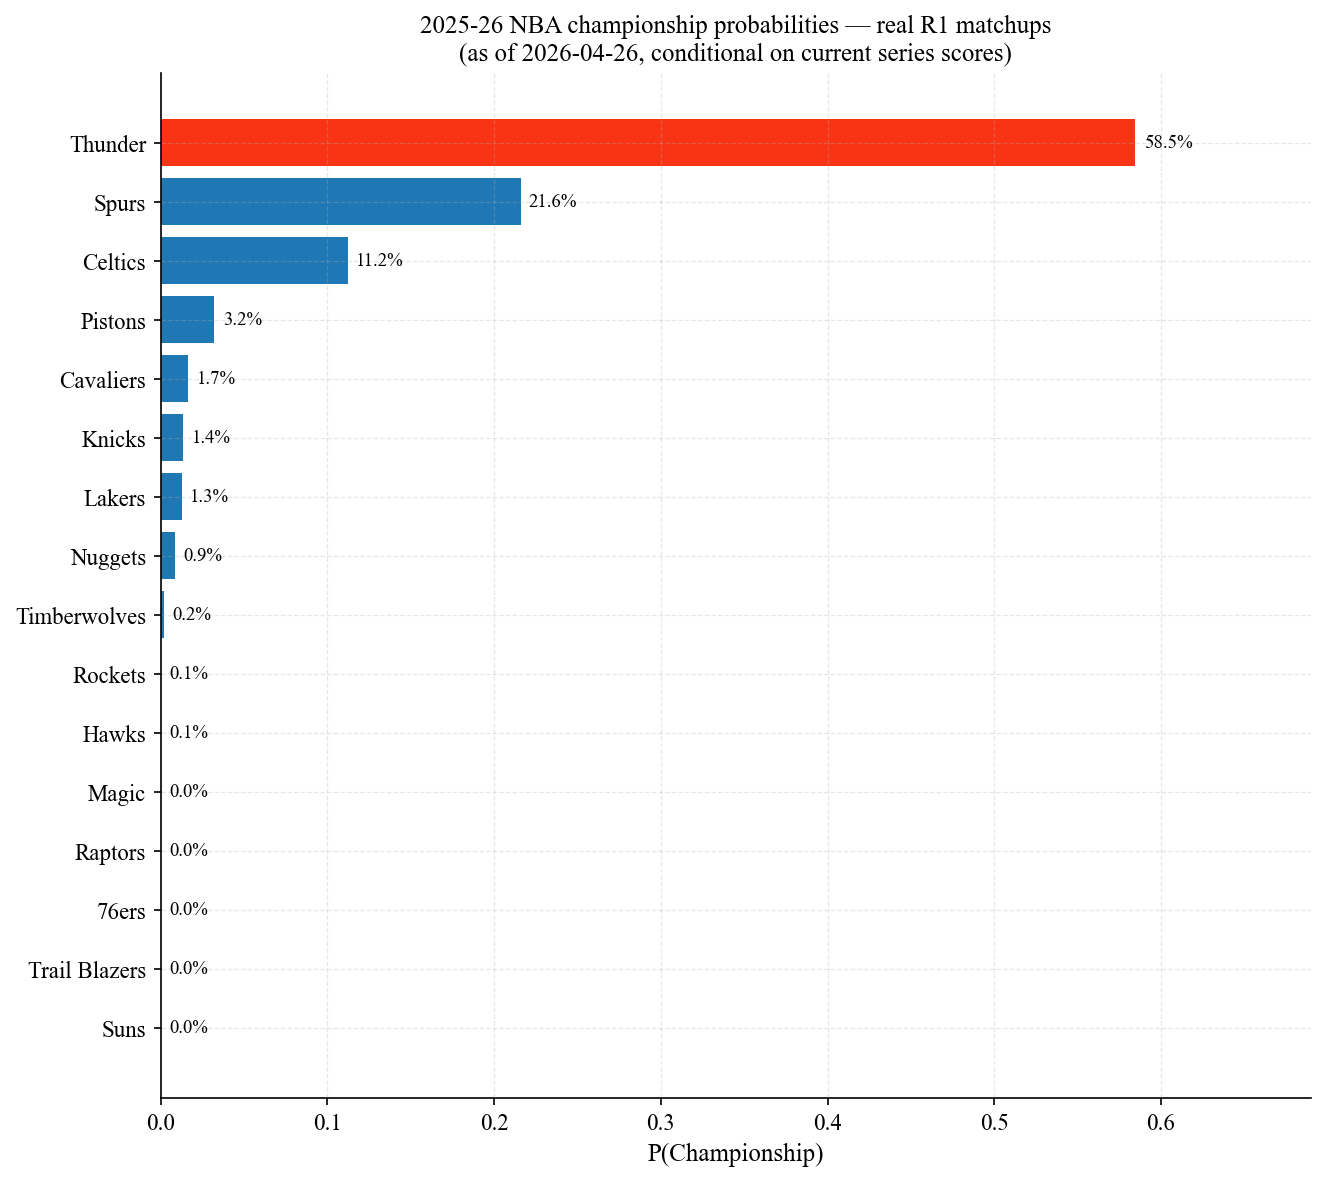
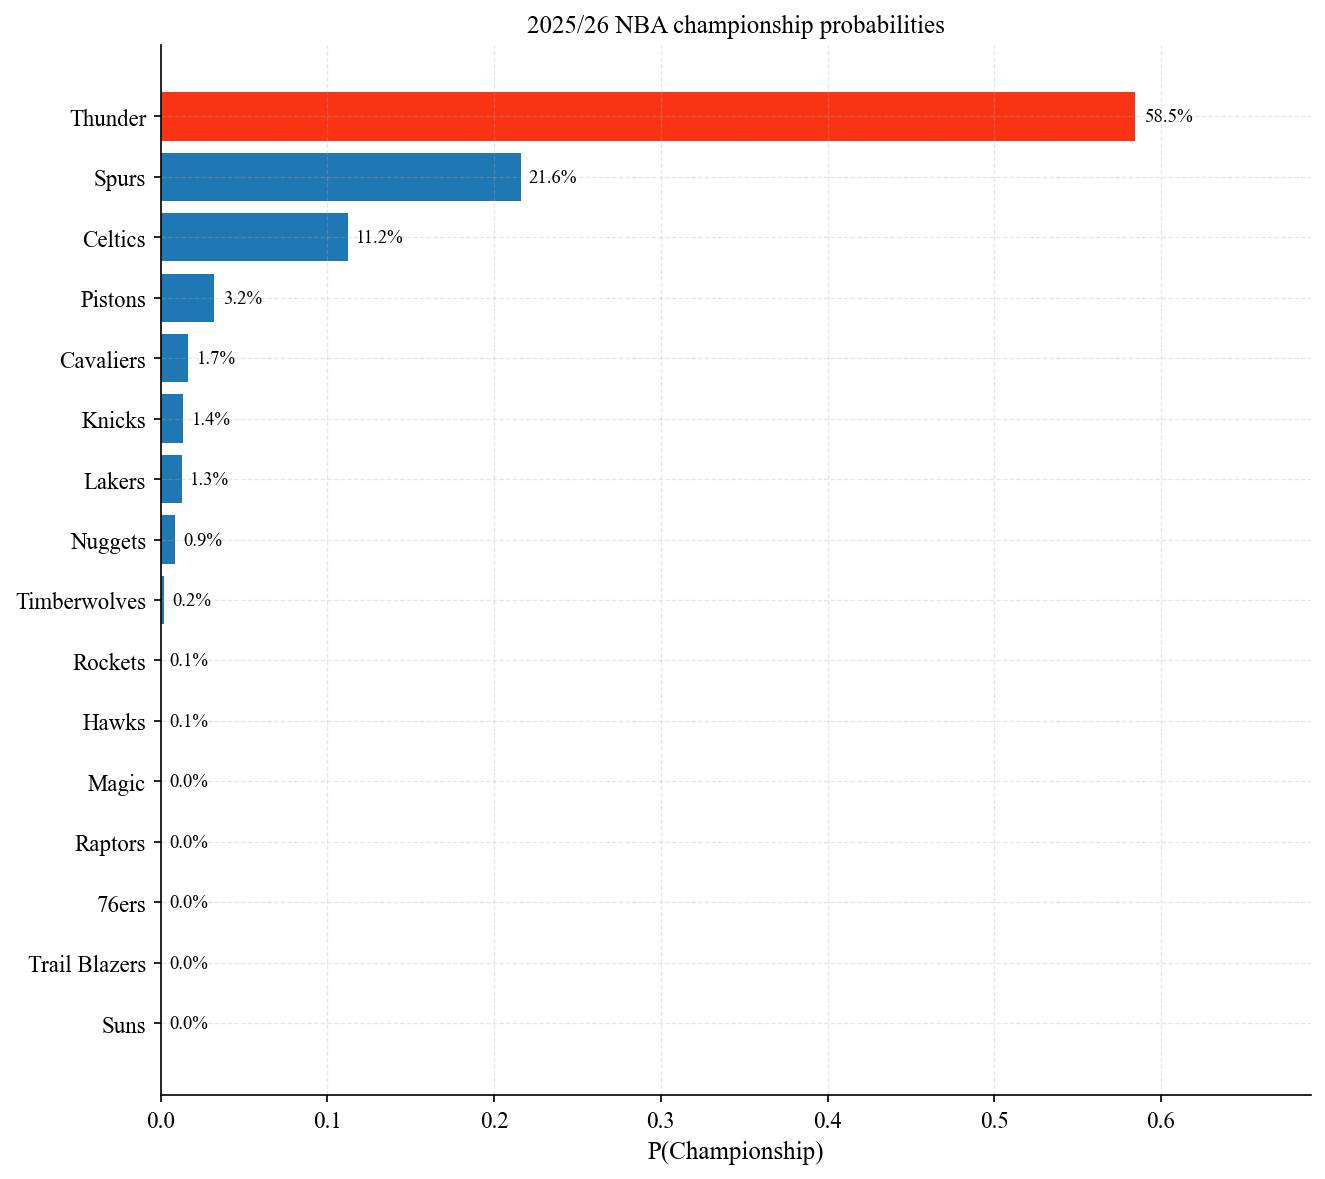
Update

diff --git a/scripts/generate_docs_plots.py b/scripts/generate_docs_plots.py
@@ -81,7 +81,6 @@ def bo7_amplifier():
                     xytext=(8, -14), textcoords="offset points", fontsize=10)
     ax.set_xlabel("Per-game win probability")
     ax.set_ylabel("Series win probability")
-    ax.set_title("Best-of-7 amplifies any per-game edge")
     ax.legend(loc="lower right")
     plt.tight_layout()
     fig.savefig(DOCS / "bo7_amplifier.png", **SAVE_KW)
@@ -98,7 +97,7 @@ def bracket_backtest():
 
     axes[0].hist(bt.actual_champ_rank, bins=range(1, 18),
                  color=plot_style.COLORS["primary"], edgecolor="white")
-    axes[0].set_title("Where did the actual champion land in our picks?")
+    axes[0].set_title("real champion's rank")
     axes[0].set_xlabel("Rank in model's top list")
     axes[0].set_ylabel("Number of seasons")
 
@@ -106,7 +105,7 @@ def bracket_backtest():
                  color=plot_style.COLORS["secondary"])
     axes[1].axhline(1 / 16, color=plot_style.COLORS["neutral"], linestyle="--",
                     label="random (1/16)")
-    axes[1].set_title("Model probability for the eventual champion (pre-playoffs)")
+    axes[1].set_title("P assigned to real champion")
     axes[1].set_xlabel("Season")
     axes[1].set_ylabel("P(championship)")
     axes[1].legend()
@@ -138,7 +137,7 @@ def conditional_confidence():
                  color=plot_style.COLORS["accent"], label="Top-3 hit rate")
     axes[0].set_ylim(0, 1.05)
     axes[0].set_ylabel("Hit rate")
-    axes[0].set_title("Hit rate by starting knowledge level")
+    axes[0].set_title("hit rate")
     axes[0].legend()
     for col in [summary.top1, summary.top3]:
         for i, v in enumerate(col):
@@ -149,7 +148,7 @@ def conditional_confidence():
                  color=plot_style.COLORS["secondary"])
     axes[1].set_ylim(0, 1.05)
     axes[1].set_ylabel("Avg P(actual champion)")
-    axes[1].set_title("Average probability assigned to the actual champion")
+    axes[1].set_title("avg P for the real champion")
     for i, v in enumerate(summary.avg_p):
         axes[1].annotate(f"{v:.0%}", (i, v), textcoords="offset points",
                          xytext=(0, 8), ha="center", fontsize=9)
@@ -248,8 +247,7 @@ def live_2026():
         colors[-1] = plot_style.COLORS["secondary"]  # highlight top pick
     ax.barh(probs.index, probs.values, color=colors)
     ax.set_xlabel("P(Championship)")
-    ax.set_title(f"2025-26 NBA championship probabilities — real R1 matchups\n"
-                 f"(as of {playoffs.gameDate.max().date()}, conditional on current series scores)")
+    ax.set_title("2025/26 NBA championship probabilities")
     for i, v in enumerate(probs.values):
         ax.text(v + 0.005, i, f"{v:.1%}", va="center", fontsize=9)
     ax.set_xlim(0, max(probs.values) * 1.18)
